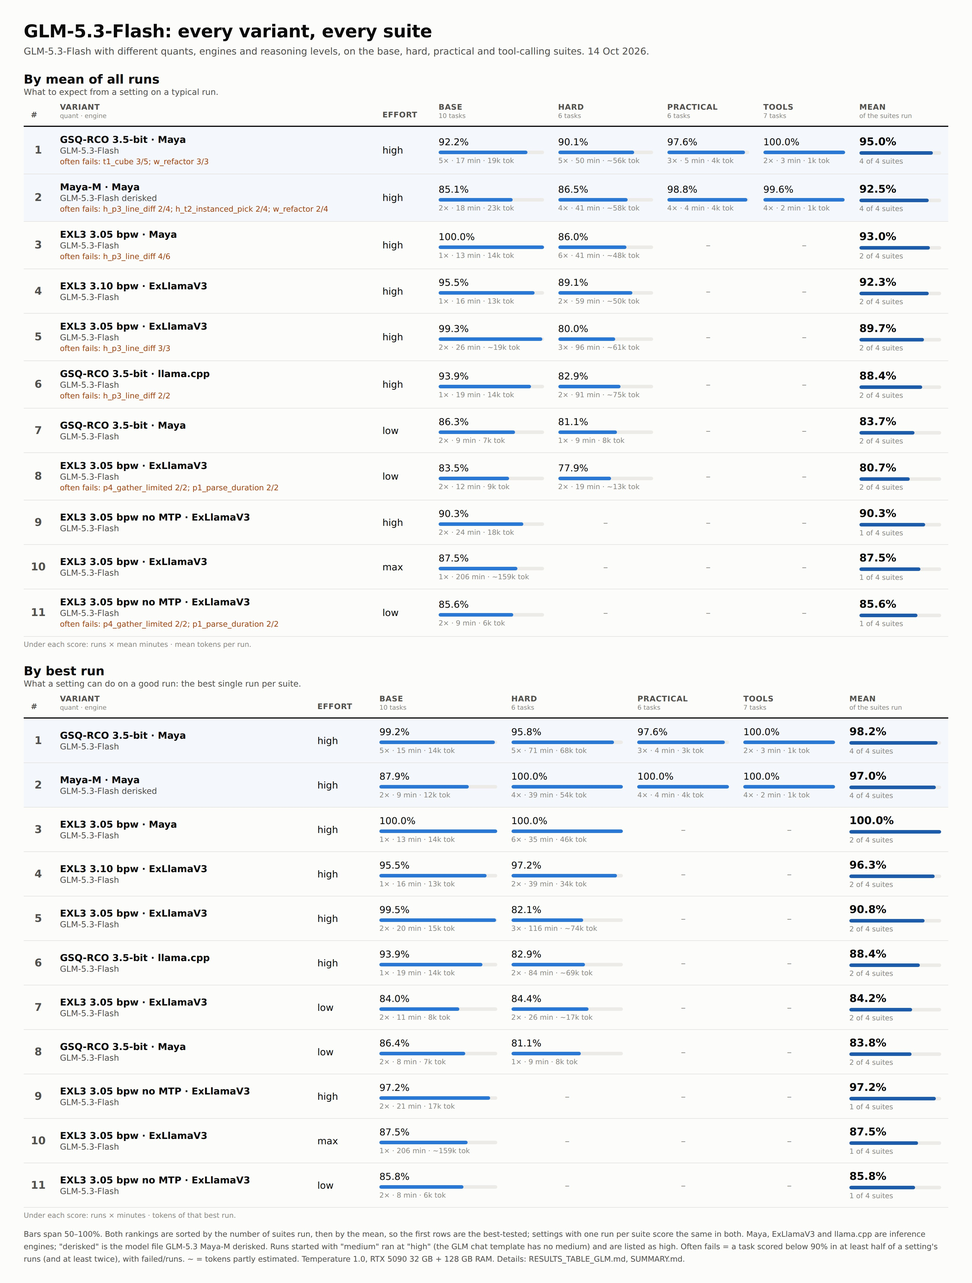
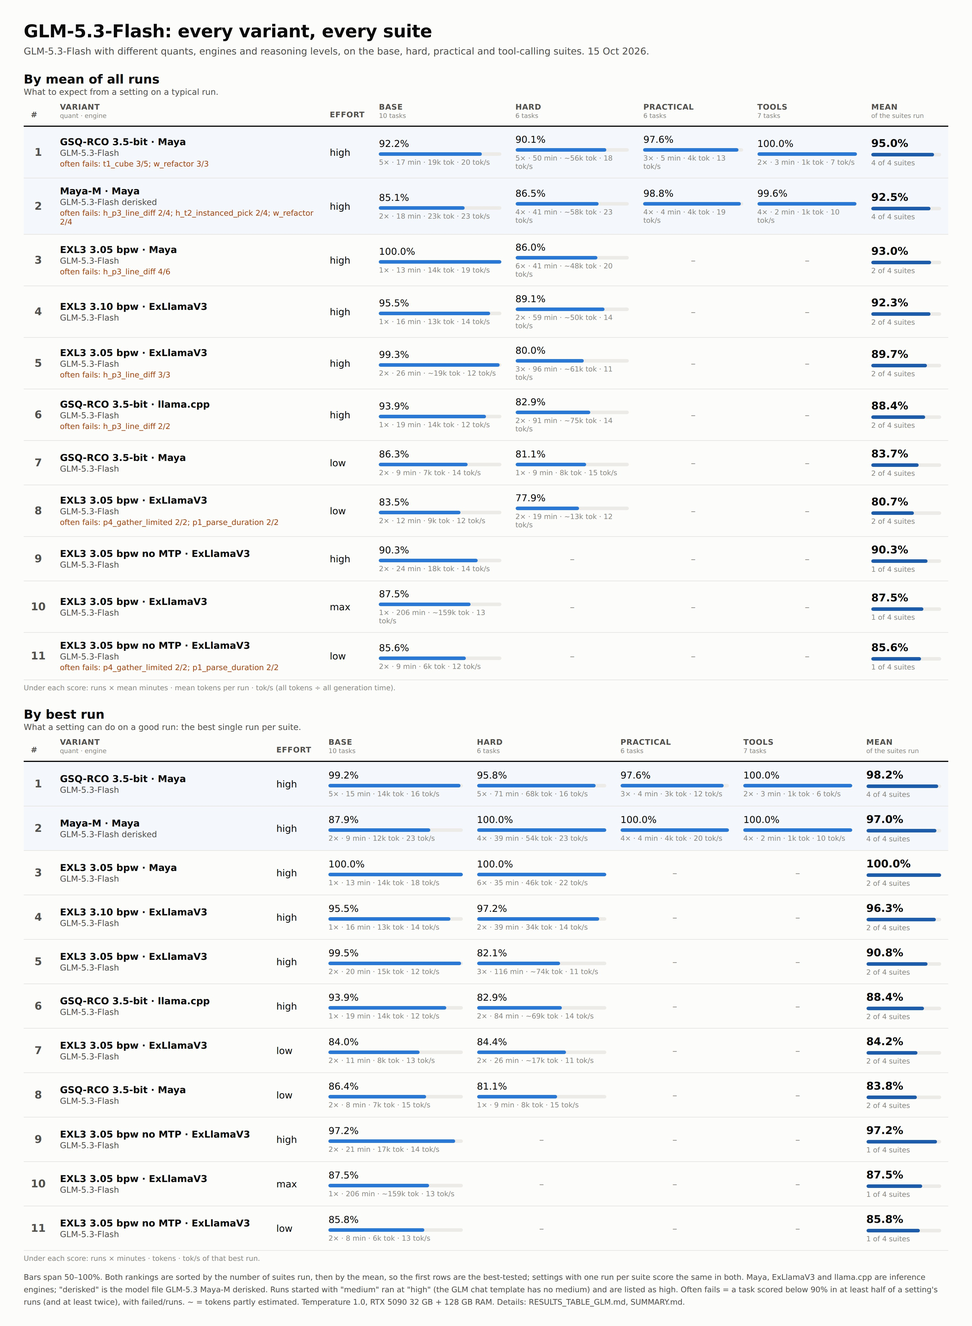
Add average tok/s to the ranking images, the README tables and the GLM table
Claude-Session: https://claude.ai/code/session_01Hw6zjR7HPW2DCjpvk73ycY

diff --git a/make_top10.py b/make_top10.py
@@ -160,6 +160,7 @@ def hard_table(rows, best):
         minutes = g["best"]["minutes"] if best else g["mean_minutes"]
         tokens = g["best"]["tokens"] if best else g["mean_tokens"]
         approx = g["best"]["tokens_approx"] if best else g["tokens_approx"]
+        tps = g["best"]["tok_s_time"] if best else g["tok_s"]
         other = (f"{g['mean']:.1f}%" if len(g["runs"]) > 1 else "–") if best else \
             (f"{g['worst']:.0f}%" if len(g["runs"]) > 1 else "–")
         body.append(f"""<tr>
@@ -168,22 +169,24 @@ def hard_table(rows, best):
 <td>{e(g['gpu'].split()[1])}</td><td>{e(g['effort'])}</td>
 <td class="avg">{bar(score)}</td><td class="num muted">{other}</td>
 <td class="num">{minutes:.1f}</td><td class="num">{"~" if approx else ""}{tokens / 1000:.0f}k</td>
+<td class="num">{tps or 0:.0f}</td>
 <td class="num muted">{len(g['runs'])}</td>
 </tr>""")
     head = ("Best run", "Mean<small>of all runs</small>", "Time, min<small>of that run</small>",
-            "Tokens<small>of that run</small>") if best else \
-        ("Mean", "Worst<small>run</small>", "Time, min<small>mean</small>", "Tokens<small>mean</small>")
+            "Tokens<small>of that run</small>", "tok/s<small>of that run</small>") if best else \
+        ("Mean", "Worst<small>run</small>", "Time, min<small>mean</small>", "Tokens<small>mean</small>",
+         "tok/s<small>mean</small>")
     return f"""<table><thead><tr>
 <th>#</th><th>Model<small>quant · backend</small></th><th>GPU</th><th>Effort</th>
 <th>{head[0]}</th><th class="num">{head[1]}</th><th class="num">{head[2]}</th><th class="num">{head[3]}</th>
-<th class="num">Runs</th>
+<th class="num">{head[4]}</th><th class="num">Runs</th>
 </tr></thead><tbody>{''.join(body)}</tbody></table>"""
 
 
 def build_hard_html(by_best, by_mean, n_settings):
     return f"""<!doctype html><html><head><meta charset="utf-8"><style>
 {STYLE}
-.wrap {{ width:2000px; }}
+.wrap {{ width:2160px; }}
 .cols {{ display:grid; grid-template-columns:1fr 1fr; gap:40px; }}
 h2 {{ font-size:20px; margin:0 0 4px; }}
 h2 + p {{ font-size:14px; color:var(--text2); margin:0 0 14px; }}
@@ -203,7 +206,7 @@ A setting = model + quant + backend + GPU + reasoning effort ({n_settings} so fa
 Settings with one run have the same score in both rankings, so only repeated ones can move between them.
 Ties on score are broken by time. Temperature 1.0; with 1–3 runs per setting, differences under ~5 points are noise.
 Token limit per task 65,536 (98,304 from 30 Sep), 60 minutes per task. RTX 5090 32 GB + 128 GB RAM,
-RTX 4080 16 GB + 32 GB RAM. Time and tokens per full suite, thinking included; ~ = partly estimated (ExLlamaV3
+RTX 4080 16 GB + 32 GB RAM. Time and tokens per full suite, thinking included; tok/s = all generated tokens ÷ all generation time; ~ = partly estimated (ExLlamaV3
 under-reports tokens). {PROBLEM_NOTE} Details: RESULTS_TABLE_HARD.md, SUMMARY.md.
 </div></div></body></html>"""
 
@@ -224,10 +227,10 @@ def collect_family(prefix):
             cells[su] = {"score": sum(r["overall"] for r in rs) / len(rs), "runs": len(rs),
                          "minutes": sum(r["minutes"] for r in rs) / len(rs),
                          "tokens": sum(r["tokens"] or 0 for r in rs) / len(rs),
-                         "approx": any(r["tokens_approx"] for r in rs)}
+                         "approx": any(r["tokens_approx"] for r in rs), "tok_s": ms.speed(rs)}
             b = min(rs, key=lambda r: (-r["overall"], r["minutes"]))  # best run; on a tie the faster one
             best[su] = {"score": b["overall"], "runs": len(rs), "minutes": b["minutes"],
-                        "tokens": b["tokens"] or 0, "approx": b["tokens_approx"]}
+                        "tokens": b["tokens"] or 0, "approx": b["tokens_approx"], "tok_s": b["tok_s_time"]}
             problems.append(ms.problem_text(rs, kinds=False))
         rows.append({"model": model, "quant": quant, "backend": backend, "effort": effort, "cells": cells,
                      "problems": "; ".join(p for p in problems if p),
@@ -248,7 +251,7 @@ def family_table(rows, key, mean_key, time_note):
         for su in suites:
             c = r[key].get(su)
             tds.append(f'<td>{bar(c["score"])}<div class="meta">{c["runs"]}× · {c["minutes"]:.0f} min · '
-                       f'{"~" if c["approx"] else ""}{c["tokens"] / 1000:.0f}k tok</div></td>'
+                       f'{"~" if c["approx"] else ""}{c["tokens"] / 1000:.0f}k tok · {c["tok_s"] or 0:.0f} tok/s</div></td>'
                        if c else '<td class="none">–</td>')
         body.append(f"""<tr>
 <td class="rank">{i}</td>
@@ -278,9 +281,9 @@ tr:nth-child(3) td {{ background:none; }}
 <h1>{title}</h1>
 <p class="lede">{lede} {date.today():%d %b %Y}.</p>
 <h2>By mean of all runs</h2><p class="h2note">What to expect from a setting on a typical run.</p>
-{family_table(by_mean, "cells", "mean", "mean minutes · mean tokens per run")}
+{family_table(by_mean, "cells", "mean", "mean minutes · mean tokens per run · tok/s (all tokens ÷ all generation time)")}
 <h2>By best run</h2><p class="h2note">What a setting can do on a good run: the best single run per suite.</p>
-{family_table(by_best, "best", "best_mean", "minutes · tokens of that best run")}
+{family_table(by_best, "best", "best_mean", "minutes · tokens · tok/s of that best run")}
 <div class="notes">
 Bars span 50–100%. Both rankings are sorted by the number of suites run, then by the mean, so the first rows are the
 best-tested; settings with one run per suite score the same in both. Maya, ExLlamaV3 and llama.cpp are inference engines;
@@ -302,17 +305,17 @@ def tok(x, approx):
 
 def readme_hard(by_best, by_mean):
     """Markdown version of top10_hard.jpg: both rankings, with time, tokens and the tasks a setting keeps failing."""
-    out = ["| # | By best run | Best | Mean | Time (min) | Tokens | Runs | Often fails |",
-           "|---|---|---|---|---|---|---|---|"]
+    out = ["| # | By best run | Best | Mean | Time (min) | Tokens | tok/s | Runs | Often fails |",
+           "|---|---|---|---|---|---|---|---|---|"]
     for i, g in enumerate(by_best, 1):
         b = g["best"]
         out.append(f"| {i} | {short(g)} | {b['overall']:.1f}% | {g['mean']:.1f}% | {b['minutes']:.1f} "
-                   f"| {tok(b['tokens'] or 0, b['tokens_approx'])} | {len(g['runs'])} | {g['problems'] or '–'} |")
-    out += ["", "| # | By mean of all runs | Mean | Worst | Mean time (min) | Mean tokens | Runs | Often fails |",
-            "|---|---|---|---|---|---|---|---|"]
+                   f"| {tok(b['tokens'] or 0, b['tokens_approx'])} | {b['tok_s_time'] or 0:.0f} | {len(g['runs'])} | {g['problems'] or '–'} |")
+    out += ["", "| # | By mean of all runs | Mean | Worst | Mean time (min) | Mean tokens | tok/s | Runs | Often fails |",
+            "|---|---|---|---|---|---|---|---|---|"]
     for i, g in enumerate(by_mean, 1):
         out.append(f"| {i} | {short(g)} | {g['mean']:.1f}% | {g['worst']:.0f}% | {g['mean_minutes']:.1f} "
-                   f"| {tok(g['mean_tokens'], g['tokens_approx'])} | {len(g['runs'])} | {g['problems'] or '–'} |")
+                   f"| {tok(g['mean_tokens'], g['tokens_approx'])} | {g['tok_s'] or 0:.0f} | {len(g['runs'])} | {g['problems'] or '–'} |")
     return out
 
 
@@ -325,7 +328,7 @@ def readme_family(by_mean):
         cells = []
         for su in suites:
             c = r["cells"].get(su)
-            cells.append(f"**{c['score']:.1f}%** ({c['runs']}×, {c['minutes']:.0f} min, {tok(c['tokens'], c['approx'])})"
+            cells.append(f"**{c['score']:.1f}%** ({c['runs']}×, {c['minutes']:.0f} min, {tok(c['tokens'], c['approx'])}, {c['tok_s'] or 0:.0f} tok/s)"
                          if c else "–")
         name = r["model"].replace("GLM-5.3-Flash", "").strip()
         out.append(f"| {(name + ' ') if name else ''}{r['quant']} · {r['backend']} | {r['effort']} | "

diff --git a/make_summary.py b/make_summary.py
@@ -247,6 +247,12 @@ def problem_text(rs, limit=2, kinds=True):
     return "; ".join(parts)
 
 
+def speed(rs):
+    """Average speed of a group of runs: all generated tokens / all generation time (tok/s)."""
+    gen = sum(r["gen_minutes"] for r in rs)
+    return sum(r["tokens"] or 0 for r in rs) / (gen * 60) if gen else None
+
+
 def rank_settings(runs):
     """One entry per setting (model + quant + backend + GPU + effort): its runs, mean, worst and best run."""
     groups = {}
@@ -259,6 +265,7 @@ def rank_settings(runs):
                     "mean_minutes": sum(r["minutes"] for r in rs) / len(rs),
                     "mean_tokens": sum(r["tokens"] or 0 for r in rs) / len(rs),
                     "tokens_approx": any(r["tokens_approx"] for r in rs),
+                    "tok_s": speed(rs),
                     "problems": problem_text(rs, kinds=False),
                     # best run; on a tie the faster one
                     "best": min(rs, key=lambda r: (-r["overall"], r["minutes"]))})
@@ -287,7 +294,7 @@ def write_family_table(prefix, path, title, intro):
         sc = mean([r["overall"] for r in rs])
         ap = "~" if any(r["tokens_approx"] for r in rs) else ""
         return (f"**{sc:.1f}%** ({len(rs)}×, {mean([r['minutes'] for r in rs]):.0f} min, "
-                f"{ap}{mean([r['tokens'] or 0 for r in rs]) / 1000:.0f}k tok)"), sc
+                f"{ap}{mean([r['tokens'] or 0 for r in rs]) / 1000:.0f}k tok, {speed(rs):.0f} tok/s)"), sc
 
     rows = []
     for k in keys:
@@ -302,7 +309,8 @@ def write_family_table(prefix, path, title, intro):
         problems[k] = "; ".join(t for t in txt if t)
     lines = [title, "", intro, "",
              "## All suites", "",
-             "Mean score per suite, with the number of runs, the mean time and the mean tokens of one run. Settings "
+             "Mean score per suite, with the number of runs, the mean time and the mean tokens of one run, and the "
+             "average speed (all tokens ÷ all generation time). Settings "
              "are sorted by how many suites they were run on, then by the mean of their suite scores. **Problem tasks** "
              "= tasks a setting scored below 90% on in at least half of its runs (and at least twice), in any suite.", "",
              "| # | Model | Quant | Backend | Effort | " + " | ".join(s_.capitalize() for s_ in SUITES) + " | Mean of suites | Problem tasks |",

diff --git a/README.md b/README.md
@@ -57,34 +57,34 @@ Settings with one run have the same score in both, so only repeated ones move. O
 ![Hard suite: top 10 by best run and by mean](top10_hard.jpg)
 
 <!-- hard-ranking:start -->
-| # | By best run | Best | Mean | Time (min) | Tokens | Runs | Often fails |
-|---|---|---|---|---|---|---|---|
-| 1 | Flash-Next GSQ-RCO IQ3_S · Strata (5090) `medium` | 100.0% | 100.0% | 19.3 | 181k | 2 | – |
-| 2 | GLM EXL3 3.05 bpw · Maya (5090) `high` | 100.0% | 86.0% | 35.3 | 46k | 6 | h_p3_line_diff 4/6 |
-| 3 | GLM derisked Maya-M · Maya (5090) `high` | 100.0% | 86.5% | 38.8 | 54k | 4 | h_p3_line_diff 2/4; h_t2_instanced_pick 2/4 |
-| 4 | Flash-Next UD-Q4_K_XL · Strata (5090) `medium` | 99.6% | 93.0% | 7.7 | 40k | 2 | – |
-| 5 | Flash-Next UD-Q4_K_XL (5090) `medium` | 98.1% | 90.3% | 17.6 | 39k | 3 | h_t3_postfx_invert 2/3 |
-| 6 | Flash-Next GSQ-RCO IQ3_S · Strata (5090) `low` | 97.8% | 97.8% | 8.4 | 70k | 1 | – |
-| 7 | 27B UD-Q6_K_M (5090) `medium` | 97.6% | 97.6% | 9.0 | 51k | 1 | – |
-| 8 | GLM EXL3 3.10 bpw · ExLlamaV3 (5090) `high` | 97.2% | 89.1% | 39.2 | 34k | 2 | – |
-| 9 | GLM GSQ-RCO 3.5-bit · Maya (5090) `high` | 95.8% | 90.1% | 71.0 | 68k | 5 | – |
-| 10 | 27B EXL3 6.0 bpw · ExLlamaV3 (5090) `low` | 94.4% | 94.4% | 6.5 | ~46k | 1 | – |
+| # | By best run | Best | Mean | Time (min) | Tokens | tok/s | Runs | Often fails |
+|---|---|---|---|---|---|---|---|---|
+| 1 | Flash-Next GSQ-RCO IQ3_S · Strata (5090) `medium` | 100.0% | 100.0% | 19.3 | 181k | 158 | 2 | – |
+| 2 | GLM EXL3 3.05 bpw · Maya (5090) `high` | 100.0% | 86.0% | 35.3 | 46k | 22 | 6 | h_p3_line_diff 4/6 |
+| 3 | GLM derisked Maya-M · Maya (5090) `high` | 100.0% | 86.5% | 38.8 | 54k | 23 | 4 | h_p3_line_diff 2/4; h_t2_instanced_pick 2/4 |
+| 4 | Flash-Next UD-Q4_K_XL · Strata (5090) `medium` | 99.6% | 93.0% | 7.7 | 40k | 90 | 2 | – |
+| 5 | Flash-Next UD-Q4_K_XL (5090) `medium` | 98.1% | 90.3% | 17.6 | 39k | 38 | 3 | h_t3_postfx_invert 2/3 |
+| 6 | Flash-Next GSQ-RCO IQ3_S · Strata (5090) `low` | 97.8% | 97.8% | 8.4 | 70k | 142 | 1 | – |
+| 7 | 27B UD-Q6_K_M (5090) `medium` | 97.6% | 97.6% | 9.0 | 51k | 96 | 1 | – |
+| 8 | GLM EXL3 3.10 bpw · ExLlamaV3 (5090) `high` | 97.2% | 89.1% | 39.2 | 34k | 14 | 2 | – |
+| 9 | GLM GSQ-RCO 3.5-bit · Maya (5090) `high` | 95.8% | 90.1% | 71.0 | 68k | 16 | 5 | – |
+| 10 | 27B EXL3 6.0 bpw · ExLlamaV3 (5090) `low` | 94.4% | 94.4% | 6.5 | ~46k | 122 | 1 | – |
 
-| # | By mean of all runs | Mean | Worst | Mean time (min) | Mean tokens | Runs | Often fails |
-|---|---|---|---|---|---|---|---|
-| 1 | Flash-Next GSQ-RCO IQ3_S · Strata (5090) `medium` | 100.0% | 100% | 19.6 | 160k | 2 | – |
-| 2 | Flash-Next GSQ-RCO IQ3_S · Strata (5090) `low` | 97.8% | 98% | 8.4 | 70k | 1 | – |
-| 3 | 27B UD-Q6_K_M (5090) `medium` | 97.6% | 98% | 9.0 | 51k | 1 | – |
-| 4 | 27B EXL3 6.0 bpw · ExLlamaV3 (5090) `low` | 94.4% | 94% | 6.5 | ~46k | 1 | – |
-| 5 | 27B EXL3 3.0 bpw · ExLlamaV3 (4080) `medium` | 93.1% | 92% | 11.0 | ~54k | 2 | – |
-| 6 | Flash-Next UD-Q4_K_XL · Strata (5090) `medium` | 93.0% | 86% | 15.7 | 75k | 2 | – |
-| 7 | Flash-Next UD-Q4_K_XL (5090) `medium` | 90.3% | 79% | 18.7 | 41k | 3 | h_t3_postfx_invert 2/3 |
-| 8 | GLM GSQ-RCO 3.5-bit · Maya (5090) `high` | 90.1% | 83% | 50.5 | ~56k | 5 | – |
-| 9 | GLM EXL3 3.10 bpw · ExLlamaV3 (5090) `high` | 89.1% | 81% | 58.8 | ~50k | 2 | – |
-| 10 | 27B UD-Q6_K_M (5090) `low` | 88.5% | 88% | 8.1 | 47k | 1 | – |
+| # | By mean of all runs | Mean | Worst | Mean time (min) | Mean tokens | tok/s | Runs | Often fails |
+|---|---|---|---|---|---|---|---|---|
+| 1 | Flash-Next GSQ-RCO IQ3_S · Strata (5090) `medium` | 100.0% | 100% | 19.6 | 160k | 137 | 2 | – |
+| 2 | Flash-Next GSQ-RCO IQ3_S · Strata (5090) `low` | 97.8% | 98% | 8.4 | 70k | 141 | 1 | – |
+| 3 | 27B UD-Q6_K_M (5090) `medium` | 97.6% | 98% | 9.0 | 51k | 96 | 1 | – |
+| 4 | 27B EXL3 6.0 bpw · ExLlamaV3 (5090) `low` | 94.4% | 94% | 6.5 | ~46k | 122 | 1 | – |
+| 5 | 27B EXL3 3.0 bpw · ExLlamaV3 (4080) `medium` | 93.1% | 92% | 11.0 | ~54k | 83 | 2 | – |
+| 6 | Flash-Next UD-Q4_K_XL · Strata (5090) `medium` | 93.0% | 86% | 15.7 | 75k | 81 | 2 | – |
+| 7 | Flash-Next UD-Q4_K_XL (5090) `medium` | 90.3% | 79% | 18.7 | 41k | 37 | 3 | h_t3_postfx_invert 2/3 |
+| 8 | GLM GSQ-RCO 3.5-bit · Maya (5090) `high` | 90.1% | 83% | 50.5 | ~56k | 18 | 5 | – |
+| 9 | GLM EXL3 3.10 bpw · ExLlamaV3 (5090) `high` | 89.1% | 81% | 58.8 | ~50k | 14 | 2 | – |
+| 10 | 27B UD-Q6_K_M (5090) `low` | 88.5% | 88% | 8.1 | 47k | 99 | 1 | – |
 <!-- hard-ranking:end -->
 
-Time and tokens are per full suite, thinking included: of the best run in the first table, means in the second. **Often fails** = a task scored below 90% in at least half of a setting's runs (and at least twice), as failed/runs; the stability tables in RESULTS_TABLE*.md also say how (wrong answer, time-out, out of tokens). These tables and the GLM table below are written by `make_top10.py`.
+Time and tokens are per full suite, thinking included: of the best run in the first table, means in the second. tok/s = all generated tokens ÷ all generation time (prompt processing included), the real working speed. **Often fails** = a task scored below 90% in at least half of a setting's runs (and at least twice), as failed/runs; the stability tables in RESULTS_TABLE*.md also say how (wrong answer, time-out, out of tokens). These tables and the GLM table below are written by `make_top10.py`.
 
 - **Flash-Next GSQ-RCO IQ3_S in Strata at `medium` is first both ways:** 100% in both runs (20 and 19 min). At `xhigh` (14 Oct) it scored 72.2%: it ran out of tokens on `h_p2` and got the diff wrong.
 - **GLM is the clearest case of "good, but not every time".** Three GLM settings have a run at 97–100%, but their means are 86–90%: EXL3 3.05 bpw in Maya ranges over 69–100%.
@@ -102,22 +102,22 @@ GLM-5.3-Flash has its own table across all four suites: [RESULTS_TABLE_GLM.md](R
 
 ![GLM-5.3-Flash: every variant, every suite](glm_flash.jpg)
 
-Summary: mean score (runs, mean time, mean tokens per run). All GLM runs are at `high` unless marked: the GLM chat template has no `medium`, so runs started with `medium` ran at `high` and are listed as `high`.
+Summary: mean score (runs, mean time, mean tokens per run, average tok/s). All GLM runs are at `high` unless marked: the GLM chat template has no `medium`, so runs started with `medium` ran at `high` and are listed as `high`.
 
 <!-- glm-table:start -->
 | Variant | Effort | Base | Hard | Practical | Tools | Often fails |
 |---|---|---|---|---|---|---|
-| GSQ-RCO 3.5-bit · Maya | high | **92.2%** (5×, 17 min, 19k) | **90.1%** (5×, 50 min, ~56k) | **97.6%** (3×, 5 min, 4k) | **100.0%** (2×, 3 min, 1k) | t1_cube 3/5; w_refactor 3/3 |
-| derisked Maya-M · Maya | high | **85.1%** (2×, 18 min, 23k) | **86.5%** (4×, 41 min, ~58k) | **98.8%** (4×, 4 min, 4k) | **99.6%** (4×, 2 min, 1k) | h_p3_line_diff 2/4; h_t2_instanced_pick 2/4; w_refactor 2/4 |
-| EXL3 3.05 bpw · Maya | high | **100.0%** (1×, 13 min, 14k) | **86.0%** (6×, 41 min, ~48k) | – | – | h_p3_line_diff 4/6 |
-| EXL3 3.10 bpw · ExLlamaV3 | high | **95.5%** (1×, 16 min, 13k) | **89.1%** (2×, 59 min, ~50k) | – | – | – |
-| EXL3 3.05 bpw · ExLlamaV3 | high | **99.3%** (2×, 26 min, ~19k) | **80.0%** (3×, 96 min, ~61k) | – | – | h_p3_line_diff 3/3 |
-| GSQ-RCO 3.5-bit · llama.cpp | high | **93.9%** (1×, 19 min, 14k) | **82.9%** (2×, 91 min, ~75k) | – | – | h_p3_line_diff 2/2 |
-| GSQ-RCO 3.5-bit · Maya | low | **86.3%** (2×, 9 min, 7k) | **81.1%** (1×, 9 min, 8k) | – | – | – |
-| EXL3 3.05 bpw · ExLlamaV3 | low | **83.5%** (2×, 12 min, 9k) | **77.9%** (2×, 19 min, ~13k) | – | – | p4_gather_limited 2/2; p1_parse_duration 2/2 |
-| EXL3 3.05 bpw no MTP · ExLlamaV3 | high | **90.3%** (2×, 24 min, 18k) | – | – | – | – |
-| EXL3 3.05 bpw · ExLlamaV3 | max | **87.5%** (1×, 206 min, ~159k) | – | – | – | – |
-| EXL3 3.05 bpw no MTP · ExLlamaV3 | low | **85.6%** (2×, 9 min, 6k) | – | – | – | p4_gather_limited 2/2; p1_parse_duration 2/2 |
+| GSQ-RCO 3.5-bit · Maya | high | **92.2%** (5×, 17 min, 19k, 20 tok/s) | **90.1%** (5×, 50 min, ~56k, 18 tok/s) | **97.6%** (3×, 5 min, 4k, 13 tok/s) | **100.0%** (2×, 3 min, 1k, 7 tok/s) | t1_cube 3/5; w_refactor 3/3 |
+| derisked Maya-M · Maya | high | **85.1%** (2×, 18 min, 23k, 23 tok/s) | **86.5%** (4×, 41 min, ~58k, 23 tok/s) | **98.8%** (4×, 4 min, 4k, 19 tok/s) | **99.6%** (4×, 2 min, 1k, 10 tok/s) | h_p3_line_diff 2/4; h_t2_instanced_pick 2/4; w_refactor 2/4 |
+| EXL3 3.05 bpw · Maya | high | **100.0%** (1×, 13 min, 14k, 19 tok/s) | **86.0%** (6×, 41 min, ~48k, 20 tok/s) | – | – | h_p3_line_diff 4/6 |
+| EXL3 3.10 bpw · ExLlamaV3 | high | **95.5%** (1×, 16 min, 13k, 14 tok/s) | **89.1%** (2×, 59 min, ~50k, 14 tok/s) | – | – | – |
+| EXL3 3.05 bpw · ExLlamaV3 | high | **99.3%** (2×, 26 min, ~19k, 12 tok/s) | **80.0%** (3×, 96 min, ~61k, 11 tok/s) | – | – | h_p3_line_diff 3/3 |
+| GSQ-RCO 3.5-bit · llama.cpp | high | **93.9%** (1×, 19 min, 14k, 12 tok/s) | **82.9%** (2×, 91 min, ~75k, 14 tok/s) | – | – | h_p3_line_diff 2/2 |
+| GSQ-RCO 3.5-bit · Maya | low | **86.3%** (2×, 9 min, 7k, 14 tok/s) | **81.1%** (1×, 9 min, 8k, 15 tok/s) | – | – | – |
+| EXL3 3.05 bpw · ExLlamaV3 | low | **83.5%** (2×, 12 min, 9k, 12 tok/s) | **77.9%** (2×, 19 min, ~13k, 12 tok/s) | – | – | p4_gather_limited 2/2; p1_parse_duration 2/2 |
+| EXL3 3.05 bpw no MTP · ExLlamaV3 | high | **90.3%** (2×, 24 min, 18k, 14 tok/s) | – | – | – | – |
+| EXL3 3.05 bpw · ExLlamaV3 | max | **87.5%** (1×, 206 min, ~159k, 13 tok/s) | – | – | – | – |
+| EXL3 3.05 bpw no MTP · ExLlamaV3 | low | **85.6%** (2×, 9 min, 6k, 12 tok/s) | – | – | – | p4_gather_limited 2/2; p1_parse_duration 2/2 |
 <!-- glm-table:end -->
 
 - **Maya runs GLM about twice as fast on the hard suite and rarely hits the time limit.** At the same level (`high`):

diff --git a/RESULTS_TABLE_GLM.md b/RESULTS_TABLE_GLM.md
@@ -4,21 +4,21 @@ Every GLM-5.3-Flash variant that has been run, in all four suites. GLM-5.3-Flash
 
 ## All suites
 
-Mean score per suite, with the number of runs, the mean time and the mean tokens of one run. Settings are sorted by how many suites they were run on, then by the mean of their suite scores. **Problem tasks** = tasks a setting scored below 90% on in at least half of its runs (and at least twice), in any suite.
+Mean score per suite, with the number of runs, the mean time and the mean tokens of one run, and the average speed (all tokens ÷ all generation time). Settings are sorted by how many suites they were run on, then by the mean of their suite scores. **Problem tasks** = tasks a setting scored below 90% on in at least half of its runs (and at least twice), in any suite.
 
 | # | Model | Quant | Backend | Effort | Base | Hard | Practical | Tools | Mean of suites | Problem tasks |
 |---|---|---|---|---|---|---|---|---|---|---|
-| 1 | GLM-5.3-Flash | GSQ-RCO 3.5-bit | Maya | high | **92.2%** (5×, 17 min, 19k tok) | **90.1%** (5×, 50 min, ~56k tok) | **97.6%** (3×, 5 min, 4k tok) | **100.0%** (2×, 3 min, 1k tok) | 95.0% (4 of 4) | t1_cube 3/5 (wrong 3); w_refactor 3/3 (wrong 3) |
-| 2 | GLM-5.3-Flash derisked | Maya-M | Maya | high | **85.1%** (2×, 18 min, 23k tok) | **86.5%** (4×, 41 min, ~58k tok) | **98.8%** (4×, 4 min, 4k tok) | **99.6%** (4×, 2 min, 1k tok) | 92.5% (4 of 4) | h_p3_line_diff 2/4 (time 1, none 1); h_t2_instanced_pick 2/4 (wrong 2); w_refactor 2/4 (wrong 2) |
-| 3 | GLM-5.3-Flash | EXL3 3.05 bpw | Maya | high | **100.0%** (1×, 13 min, 14k tok) | **86.0%** (6×, 41 min, ~48k tok) | – | – | 93.0% (2 of 4) | h_p3_line_diff 4/6 (wrong 4) |
-| 4 | GLM-5.3-Flash | EXL3 3.10 bpw | ExLlamaV3 | high | **95.5%** (1×, 16 min, 13k tok) | **89.1%** (2×, 59 min, ~50k tok) | – | – | 92.3% (2 of 4) | – |
-| 5 | GLM-5.3-Flash | EXL3 3.05 bpw | ExLlamaV3 | high | **99.3%** (2×, 26 min, ~19k tok) | **80.0%** (3×, 96 min, ~61k tok) | – | – | 89.7% (2 of 4) | h_p3_line_diff 3/3 (time 3) |
-| 6 | GLM-5.3-Flash | GSQ-RCO 3.5-bit | llama.cpp | high | **93.9%** (1×, 19 min, 14k tok) | **82.9%** (2×, 91 min, ~75k tok) | – | – | 88.4% (2 of 4) | h_p3_line_diff 2/2 (time 2) |
-| 7 | GLM-5.3-Flash | GSQ-RCO 3.5-bit | Maya | low | **86.3%** (2×, 9 min, 7k tok) | **81.1%** (1×, 9 min, 8k tok) | – | – | 83.7% (2 of 4) | – |
-| 8 | GLM-5.3-Flash | EXL3 3.05 bpw | ExLlamaV3 | low | **83.5%** (2×, 12 min, 9k tok) | **77.9%** (2×, 19 min, ~13k tok) | – | – | 80.7% (2 of 4) | p4_gather_limited 2/2 (wrong 2); p1_parse_duration 2/2 (wrong 2) |
-| 9 | GLM-5.3-Flash | EXL3 3.05 bpw no MTP | ExLlamaV3 | high | **90.3%** (2×, 24 min, 18k tok) | – | – | – | 90.3% (1 of 4) | – |
-| 10 | GLM-5.3-Flash | EXL3 3.05 bpw | ExLlamaV3 | max | **87.5%** (1×, 206 min, ~159k tok) | – | – | – | 87.5% (1 of 4) | – |
-| 11 | GLM-5.3-Flash | EXL3 3.05 bpw no MTP | ExLlamaV3 | low | **85.6%** (2×, 9 min, 6k tok) | – | – | – | 85.6% (1 of 4) | p4_gather_limited 2/2 (wrong 2); p1_parse_duration 2/2 (wrong 2) |
+| 1 | GLM-5.3-Flash | GSQ-RCO 3.5-bit | Maya | high | **92.2%** (5×, 17 min, 19k tok, 20 tok/s) | **90.1%** (5×, 50 min, ~56k tok, 18 tok/s) | **97.6%** (3×, 5 min, 4k tok, 13 tok/s) | **100.0%** (2×, 3 min, 1k tok, 7 tok/s) | 95.0% (4 of 4) | t1_cube 3/5 (wrong 3); w_refactor 3/3 (wrong 3) |
+| 2 | GLM-5.3-Flash derisked | Maya-M | Maya | high | **85.1%** (2×, 18 min, 23k tok, 23 tok/s) | **86.5%** (4×, 41 min, ~58k tok, 23 tok/s) | **98.8%** (4×, 4 min, 4k tok, 19 tok/s) | **99.6%** (4×, 2 min, 1k tok, 10 tok/s) | 92.5% (4 of 4) | h_p3_line_diff 2/4 (time 1, none 1); h_t2_instanced_pick 2/4 (wrong 2); w_refactor 2/4 (wrong 2) |
+| 3 | GLM-5.3-Flash | EXL3 3.05 bpw | Maya | high | **100.0%** (1×, 13 min, 14k tok, 19 tok/s) | **86.0%** (6×, 41 min, ~48k tok, 20 tok/s) | – | – | 93.0% (2 of 4) | h_p3_line_diff 4/6 (wrong 4) |
+| 4 | GLM-5.3-Flash | EXL3 3.10 bpw | ExLlamaV3 | high | **95.5%** (1×, 16 min, 13k tok, 14 tok/s) | **89.1%** (2×, 59 min, ~50k tok, 14 tok/s) | – | – | 92.3% (2 of 4) | – |
+| 5 | GLM-5.3-Flash | EXL3 3.05 bpw | ExLlamaV3 | high | **99.3%** (2×, 26 min, ~19k tok, 12 tok/s) | **80.0%** (3×, 96 min, ~61k tok, 11 tok/s) | – | – | 89.7% (2 of 4) | h_p3_line_diff 3/3 (time 3) |
+| 6 | GLM-5.3-Flash | GSQ-RCO 3.5-bit | llama.cpp | high | **93.9%** (1×, 19 min, 14k tok, 12 tok/s) | **82.9%** (2×, 91 min, ~75k tok, 14 tok/s) | – | – | 88.4% (2 of 4) | h_p3_line_diff 2/2 (time 2) |
+| 7 | GLM-5.3-Flash | GSQ-RCO 3.5-bit | Maya | low | **86.3%** (2×, 9 min, 7k tok, 14 tok/s) | **81.1%** (1×, 9 min, 8k tok, 15 tok/s) | – | – | 83.7% (2 of 4) | – |
+| 8 | GLM-5.3-Flash | EXL3 3.05 bpw | ExLlamaV3 | low | **83.5%** (2×, 12 min, 9k tok, 12 tok/s) | **77.9%** (2×, 19 min, ~13k tok, 12 tok/s) | – | – | 80.7% (2 of 4) | p4_gather_limited 2/2 (wrong 2); p1_parse_duration 2/2 (wrong 2) |
+| 9 | GLM-5.3-Flash | EXL3 3.05 bpw no MTP | ExLlamaV3 | high | **90.3%** (2×, 24 min, 18k tok, 14 tok/s) | – | – | – | 90.3% (1 of 4) | – |
+| 10 | GLM-5.3-Flash | EXL3 3.05 bpw | ExLlamaV3 | max | **87.5%** (1×, 206 min, ~159k tok, 13 tok/s) | – | – | – | 87.5% (1 of 4) | – |
+| 11 | GLM-5.3-Flash | EXL3 3.05 bpw no MTP | ExLlamaV3 | low | **85.6%** (2×, 9 min, 6k tok, 12 tok/s) | – | – | – | 85.6% (1 of 4) | p4_gather_limited 2/2 (wrong 2); p1_parse_duration 2/2 (wrong 2) |
 
 ## Base suite
 
